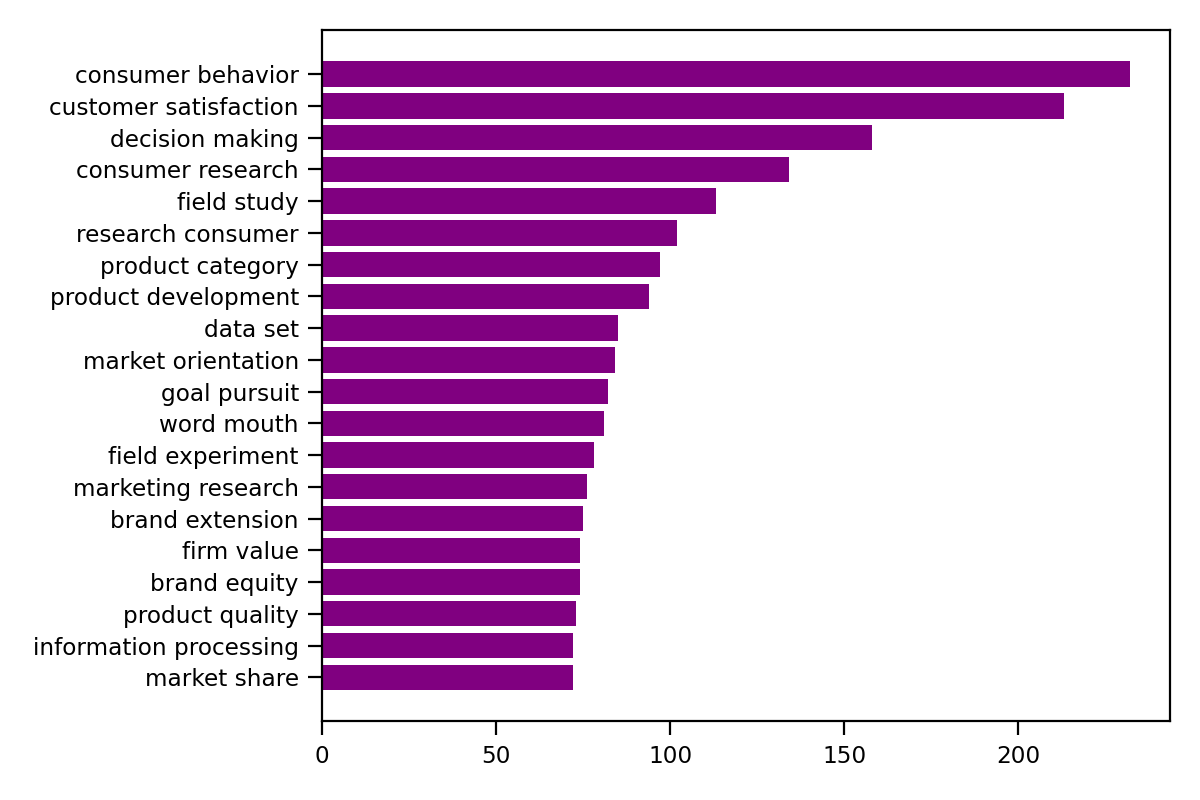
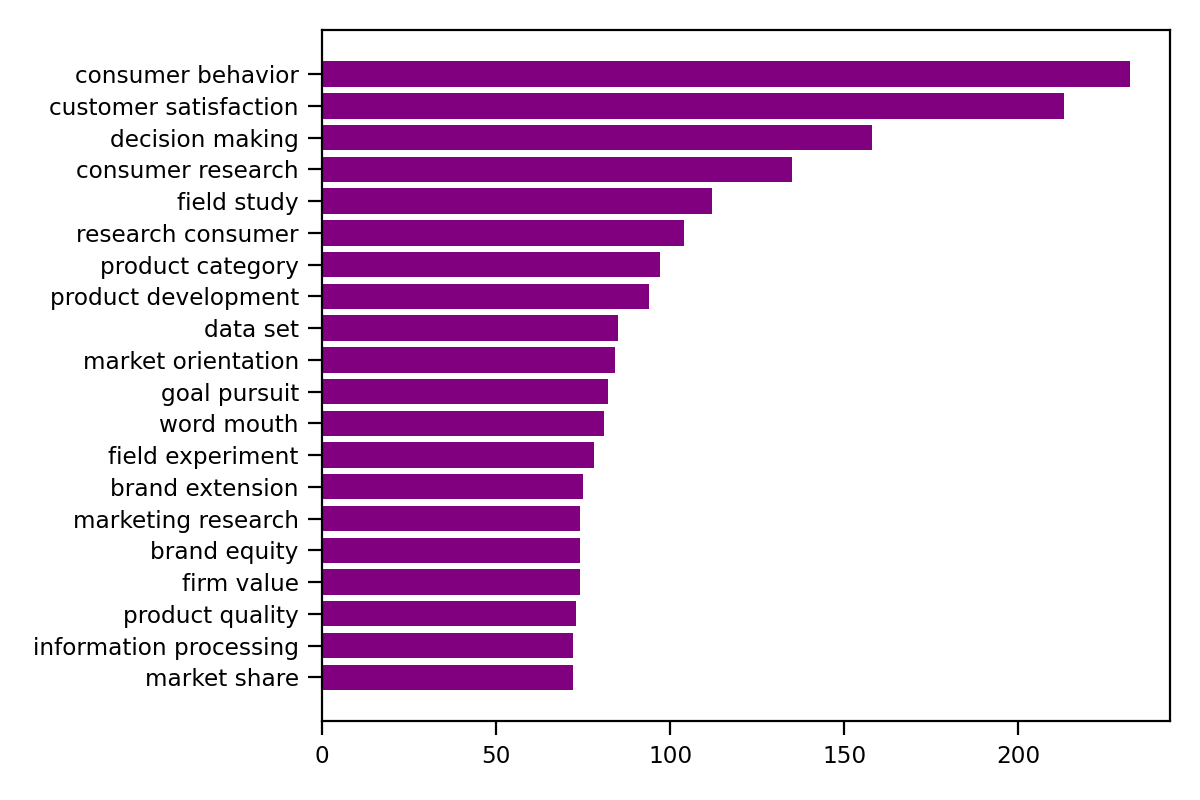
updated ngram and bert

Changed region(s): [[0.0617, 0.5938, 0.2467, 0.75], [0.555, 0.2812, 0.5858, 0.3125], [0.4625, 0.5938, 0.4933, 0.625]]

diff --git a/summary_stats/calc_n_gram.py b/summary_stats/calc_n_gram.py
@@ -10,33 +10,16 @@ from pandas.core.common import flatten
  
 # merge the journals in one dataframe, vertically
 df_journals_merged = pd.read_parquet('../data/clean/all_journals_adject_nouns_merged.gzip')
-
-# init the Wordnet Lemmatizer
-lemmatizer = WordNetLemmatizer()
-
-# create list of words for each document -body
-body_list = [[lemmatizer.lemmatize(word) for word in document.split()] for document in df_journals_merged['body'].tolist()]
-body_lemmatized_list = list(flatten(body_list))  
-body_lemmatized_list_str = [' '.join(body) for body in body_list ]
-
-# create list of words for each document -abstract
-abstract_list =  [[lemmatizer.lemmatize(word) for word in document.split()] for document in df_journals_merged['abstract'].tolist()]
-abstract_lemmatized_list =  list(flatten(abstract_list))  
-abstract_lemmatized_list_str = [' '.join(abstract) for abstract in abstract_list ]
-
-# create list of words for each document -titles
-title_list =  [[lemmatizer.lemmatize(word) for word in document.split()] for document in df_journals_merged['title'].tolist()]
-title_lemmatized_list =  list(flatten(title_list)) 
-title_lemmatized_list_str = [' '.join(title) for title in title_list ]
+df_journals_merged_all = pd.read_parquet('../data/clean/all_journals_allWords_merged.gzip')
 
 
-# add lemmatized versions backs
-df_journals_merged['body_lemmatized'] = body_lemmatized_list_str
-df_journals_merged['abstract_lemmatized'] = abstract_lemmatized_list_str
-df_journals_merged['title_lemmatized'] = title_lemmatized_list_str
-df_journals_merged.to_parquet("../Data/clean/all_journals_adject_nouns_merged_withLemmatized.gzip", compression='gzip')
+body_list = list(flatten( [[word for word in document.split()] for document in df_journals_merged['body_lemmatized'].tolist()]))
+abstract_list = list(flatten( [[word for word in document.split()] for document in df_journals_merged['abstract_lemmatized'].tolist()]))
+title_list = list(flatten( [[word for word in document.split()] for document in df_journals_merged['title_lemmatized'].tolist()]))
 
-df_journals_merged = pd.read_parquet('../data/clean/all_journals_adject_nouns_merged_withLemmatized.gzip')
+body_list_all = list(flatten( [[word for word in document.split()] for document in df_journals_merged_all['body_lemmatized'].tolist()]))
+abstract_list_all = list(flatten( [[word for word in document.split()] for document in df_journals_merged_all['abstract_lemmatized'].tolist()]))
+title_list_all = list(flatten( [[word for word in document.split()] for document in df_journals_merged_all['title_lemmatized'].tolist()]))
 
 
 def convertTuple(tup):
@@ -97,17 +80,19 @@ def create_plot_n_gram(top_words, color, save= False, dpi = 200, figname = None)
     plt.show()
 
 
+###### adjectives, nouns
+
 # top uni and bigrams - body of text
-top_words_body = get_top_n_gram(df_journals_merged['body_lemmatized'].tolist(), 1, 20)
-top_two_words_body =  get_top_n_gram(df_journals_merged['body_lemmatized'].tolist(), 2, 20, remove_double = True)
+top_words_body = get_top_n_gram(body_list, 1, 20)
+top_two_words_body =  get_top_n_gram(body_list, 2, 20, remove_double = True)
 
 # top uni and bigrams - abstract
-top_words_abstract =  get_top_n_gram(df_journals_merged['abstract_lemmatized'], 1, 20)
-top_two_words_abstract =  get_top_n_gram(df_journals_merged['abstract_lemmatized'], 2, 20, remove_double = True)
+top_words_abstract =  get_top_n_gram(abstract_list, 1, 20)
+top_two_words_abstract =  get_top_n_gram(abstract_list, 2, 20, remove_double = True)
 
 # top uni and bigrams - titles
-top_words_title = get_top_n_gram(df_journals_merged['title_lemmatized'], 1, 20)
-top_two_words_title =  get_top_n_gram(df_journals_merged['title_lemmatized'], 2, 20, remove_double = True)
+top_words_title = get_top_n_gram(title_list, 1, 20)
+top_two_words_title =  get_top_n_gram(title_list, 2, 20, remove_double = True)
 
 
 create_plot_n_gram(top_words_body, 'blue', save = True, figname = 'unigram_body_plot')
@@ -116,4 +101,32 @@ create_plot_n_gram(top_words_abstract, 'green', save = True, figname = 'unigram_
 create_plot_n_gram(top_two_words_abstract, 'purple', save = True, figname = 'bigram_abstract_plot')
 create_plot_n_gram(top_words_title, 'orange', save = True, figname = 'unigram_title_plot')
 create_plot_n_gram(top_two_words_title, 'pink', save = True, figname = 'bigram_title_plot')
+
+
+
+
+###### all words
+
+# top uni and bigrams - body of text
+top_words_body_all = get_top_n_gram(body_list_all, 1, 20)
+top_two_words_body_all =  get_top_n_gram(body_list_all, 2, 20, remove_double = True)
+
+# top uni and bigrams - abstract
+top_words_abstract_all =  get_top_n_gram(abstract_list_all, 1, 20)
+top_two_words_abstract_all =  get_top_n_gram(abstract_list_all, 2, 20, remove_double = True)
+
+# top uni and bigrams - titles
+top_words_title_all = get_top_n_gram(title_list_all, 1, 20)
+top_two_words_title_all =  get_top_n_gram(title_list_all, 2, 20, remove_double = True)
+
+
+
+create_plot_n_gram(top_words_body_all, 'blue', save = True, figname = 'unigram_body_plot_all')
+create_plot_n_gram(top_two_words_body_all, 'red', save = True, figname = 'bigram_body_plot_all')
+create_plot_n_gram(top_words_abstract_all, 'green', save = True, figname = 'unigram_abstract_plot_all')
+create_plot_n_gram(top_two_words_abstract_all, 'purple', save = True, figname = 'bigram_abstract_plot_all')
+create_plot_n_gram(top_words_title_all, 'orange', save = True, figname = 'unigram_title_plot_all')
+create_plot_n_gram(top_two_words_title_all, 'pink', save = True, figname = 'bigram_title_plot_all')
+
+
 
